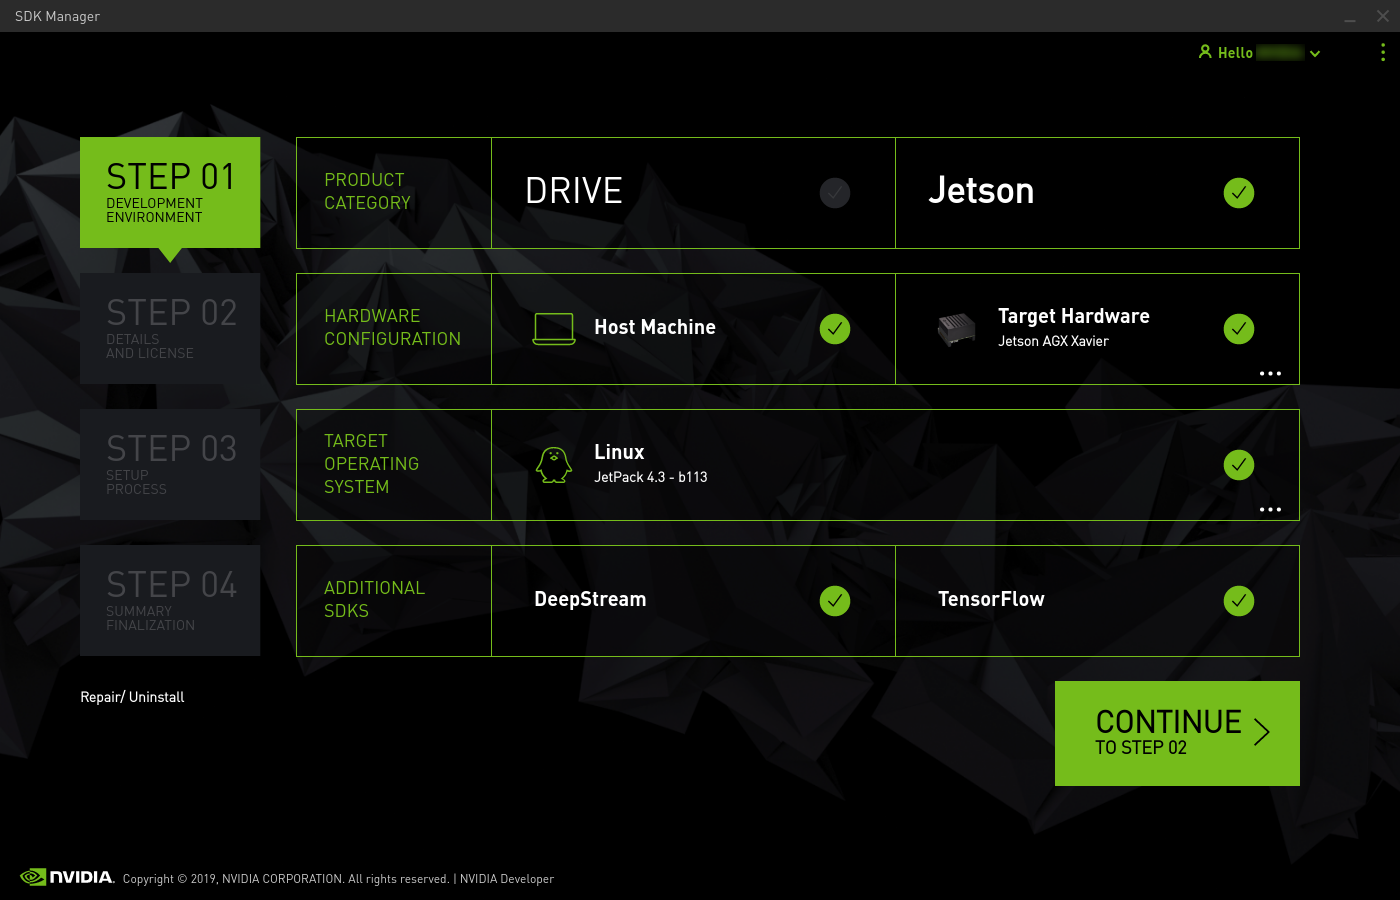
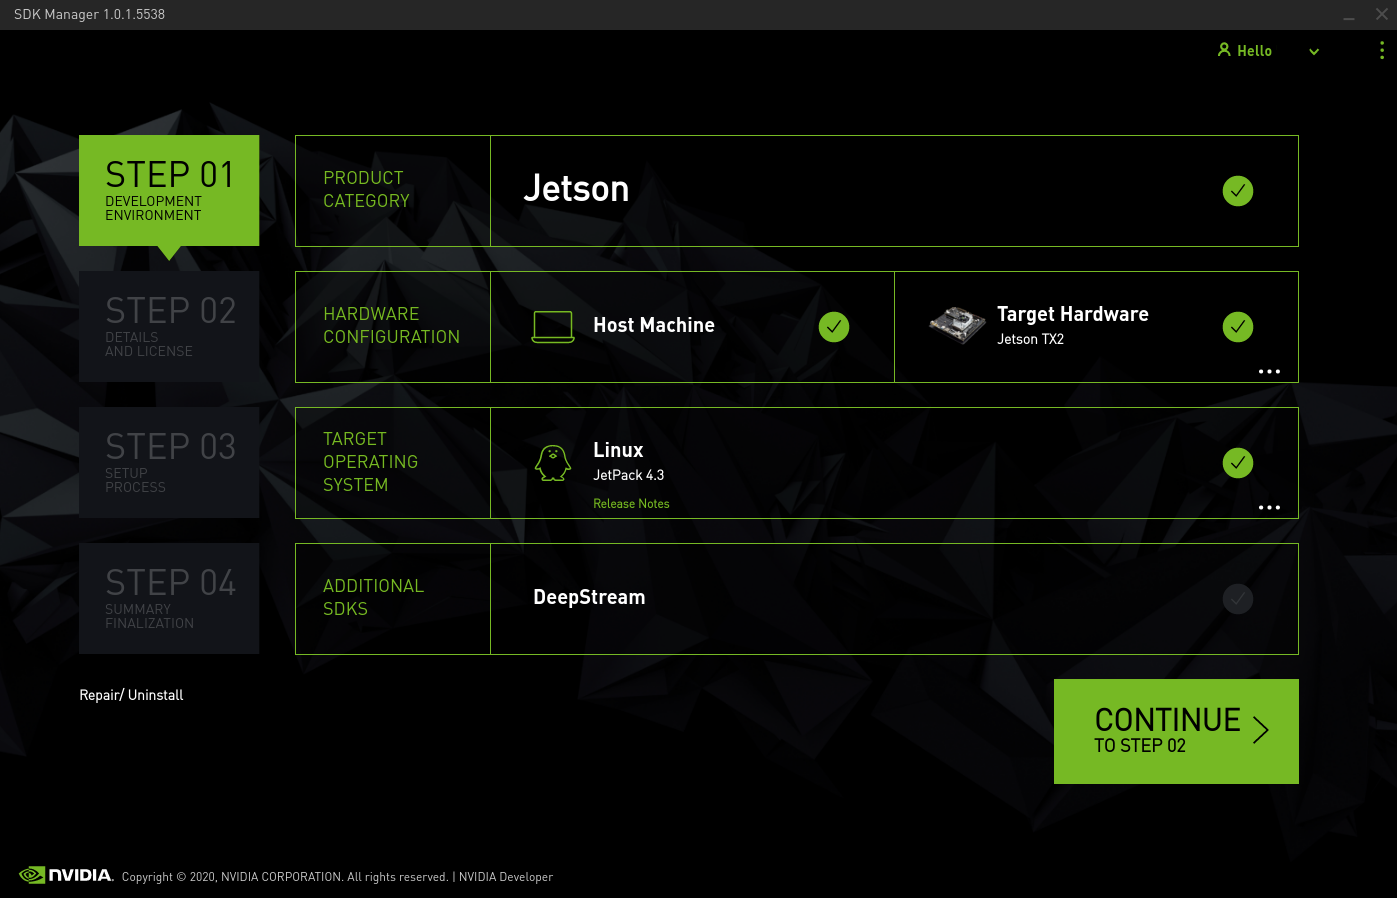
Edited software section.

diff --git a/getting_started/software_setup/software_jetson.rst b/getting_started/software_setup/software_jetson.rst
@@ -40,27 +40,27 @@ We first need to install NVIDIA SDK Manager. It provides an end-to-end developme
 #. Download `NVIDIA SDK Manager <https://developer.nvidia.com/nvidia-sdk-manager>`_ for *“All Jetson Developer Kits”* and run SDKM. Installation help can be found `here <https://docs.nvidia.com/sdk-manager/install-with-sdkm-jetson/index.html#install-with-sdkm-jetson>`_.
 #. On host computer, extract and launch `SDK Manager <https://docs.nvidia.com/sdk-manager/install-with-sdkm-jetson/index.html>`_.
 
+2. Installing JetPack on Pit/Host Computer
+--------------------------------------------
+Install JetPack 4.3 (L4T 32.3.1) on **Pit/Host** computer with `NVIDIA SDK Manager <https://docs.nvidia.com/sdk-manager/install-with-sdkm-jetson/index.html>`_.
+	#. In Hardware Configuration: select Host Machine and in for Target Hardware, select Jetson TX2.
+	#. If your window does not display all information, press Tab to scroll down, or use a bigger monitor.
+	#. Follow instructions in SDKM,
+
 	.. figure:: img/jetson/jetson02.png
 	  	:align: center
 
 		NVIDIA SDK Manager.
-
-
-2. Installing JetPack on Pit/Host Computer
---------------------------------------------
-Install JetPack 4.3 (L4T 32.3.1) on **Pit/Host** computer with `NVIDIA SDK Manager <https://docs.nvidia.com/sdk-manager/install-with-sdkm-jetson/index.html>`_.
-	#. In Hardware Configuration: choose Host Machine, deselect Target Hardware
-	#. If your window does not display all information, press Tab to scroll down, or use a bigger monitor.
-	#. Follow instructions in SDKM;
 	
 * If running into errors, close and relaunch SDKM, then choose repair/uninstall under the STEP 4 button.
 
 3. Installing Orbitty BSP on Pit/Host Computer
 ------------------------------------------------
-Download and install `BST for Orbitty Carrier board <http://connecttech.com/support/resource-center/nvidia-jetson-tx2-tx1-product-support/>`_ on **Pit/Host** computer.
+Download and install `BSP for Orbitty Carrier board <http://connecttech.com/support/resource-center/nvidia-jetson-tx2-tx1-product-support/>`_ on **Pit/Host** computer. Choose the **Jetson TX2/TX2 4GB/TX2i** module.
 
-On *Board Support Packages* tab, under *Looking for board support packages for your TX2 4GB solution?*, select the **Jetpack 4.3** to download. The file name is ``CTI-L4T-TX2.32.3.2-V001.tgz``.
+On *Board Support Packages* tab, select **TX2 L4T r32.3.1 – Jetpack 4.3**. This should be the first *Board Support Packages*.
 
+..
 	.. figure:: img/jetson/jetson03.png
 	  	:align: center
 
